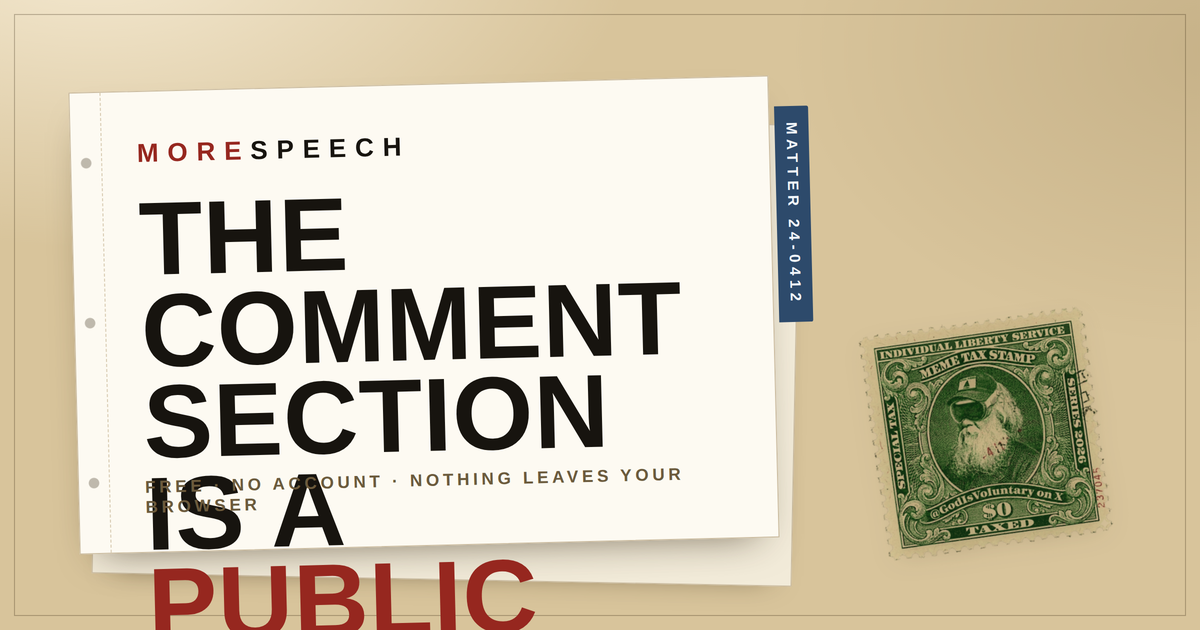
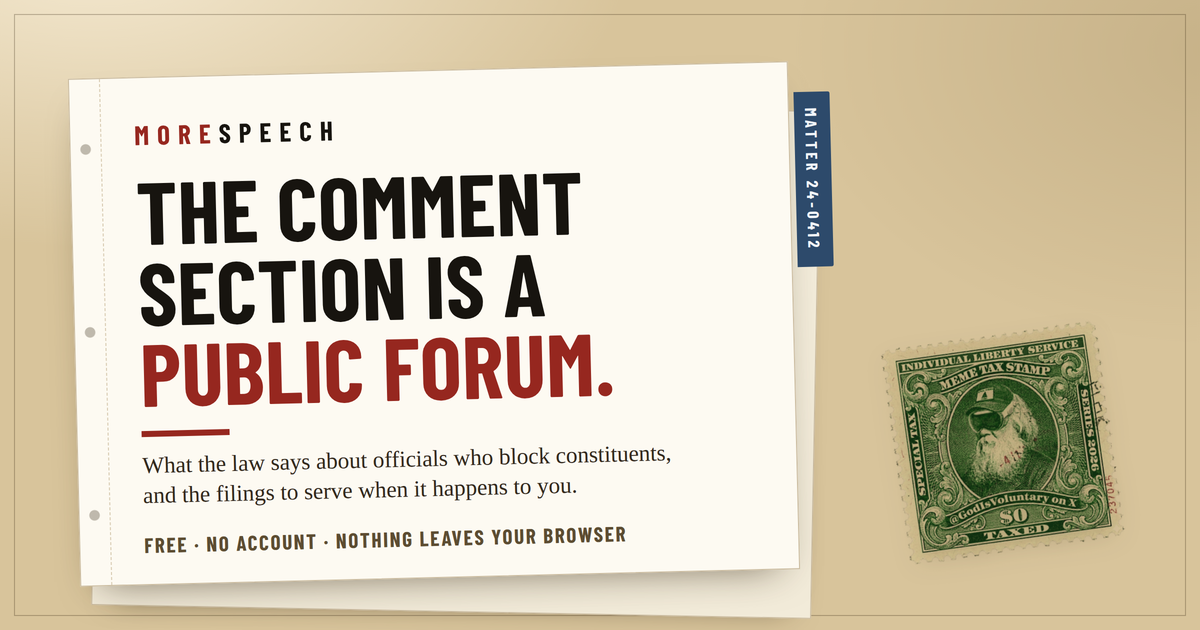
The link card was illegible: the webfont never inlined
og-shot.mjs inlined href and src attributes but not CSS url(), which is how the
@font-face references Barlow Condensed. Rendered as a data: URL, the relative
font path could not resolve, so Chrome fell back to a wider face: the headline
wrapped from three lines to six, the sheet overflowed, and the promise line ran
off the bottom edge. Vision read it back as 'THE / COMMENT / SECTION / IS A /
PUBLIC' with the subtitle overprinted.

Fixed by inlining url() references too, and by making the layout itself
self-checking: og-shot.mjs now refuses to write an image when any block crosses
the sheet edge or a headline line wraps. A fixture with a missing font proves it
fails with 'headline line wrapped' rather than shipping.

Type retuned after reading the rendered card at 500px (phone feed):
headline 88px, subhead 23px at a 545px measure rephrased to two full lines with
no widow, promise line 21px without the divider it was crowding, bottom padding
raised to 44px so the last line clears the sheet edge by 30px.

diff --git a/src/og.html b/src/og.html
@@ -31,12 +31,12 @@
 
   /* the sheet, tilted the way a file left on a desk sits */
   .sheet {
-    position: absolute; left: 74px; top: 84px; width: 700px; height: 462px;
+    position: absolute; left: 74px; top: 70px; width: 720px; height: 508px;
     background: #fdfaf2;
     border: 1px solid #cbbca0;
     box-shadow: 0 18px 40px -22px rgba(46,33,12,.65);
     transform: rotate(-1.4deg);
-    padding: 46px 48px 40px 66px;
+    padding: 40px 46px 44px 64px;
   }
   .sheet::before {
     content: ""; position: absolute; left: 0; top: 0; bottom: 0; width: 30px;
@@ -51,46 +51,46 @@
     writing-mode: vertical-rl;
     background: #2d4a6b; color: #f3f7fb;
     font-family: "Barlow Condensed", sans-serif; font-weight: 700;
-    font-size: 15px; letter-spacing: .3em; text-transform: uppercase;
+    font-size: 16px; letter-spacing: .22em; text-transform: uppercase;
     padding: 16px 9px 16px 8px; border-radius: 0 2px 2px 0;
   }
 
   .wordmark {
     font-family: "Barlow Condensed", sans-serif; font-weight: 700;
-    font-size: 26px; letter-spacing: .34em; text-transform: uppercase; color: #96271f;
+    font-size: 27px; letter-spacing: .3em; text-transform: uppercase; color: #96271f;
   }
   .wordmark em { font-style: normal; color: #17140f; }
 
   h1 {
     font-family: "Barlow Condensed", sans-serif; font-weight: 700;
-    font-size: 104px; line-height: .88; letter-spacing: .005em;
-    text-transform: uppercase; margin: 26px 0 0;
+    font-size: 88px; line-height: .92; letter-spacing: .004em;
+    text-transform: uppercase; margin: 20px 0 0;
   }
   h1 span { display: block; }
   h1 span:nth-child(3) { color: #96271f; }
 
-  .rule { width: 96px; height: 6px; background: #96271f; margin: 22px 0 18px; }
+  .rule { width: 88px; height: 6px; background: #96271f; margin: 18px 0 14px; }
 
   .sub {
-    font-size: 21px; line-height: 1.38; color: #3b3327; max-width: 560px;
+    font-size: 23px; line-height: 1.32; color: #33291c; max-width: 545px;
   }
 
   .foot {
-    position: absolute; left: 66px; bottom: 34px;
+    margin-top: 20px;
     font-family: "Barlow Condensed", sans-serif; font-weight: 700;
-    font-size: 17px; letter-spacing: .22em; text-transform: uppercase; color: #6b5a3c;
+    font-size: 21px; letter-spacing: .08em; text-transform: uppercase; color: #5c4c31;
   }
 
   /* the stamp, on the desk rather than on the sheet */
   .stamp {
-    position: absolute; right: 96px; bottom: 78px; width: 236px;
+    position: absolute; right: 84px; bottom: 74px; width: 226px;
     transform: rotate(-8deg);
     filter: drop-shadow(0 6px 12px rgba(46,33,12,.3));
   }
 
   /* a second sheet edge, half under the first, to read as a stack */
   .under {
-    position: absolute; left: 96px; top: 118px; width: 700px; height: 462px;
+    position: absolute; left: 96px; top: 104px; width: 720px; height: 508px;
     background: #f2ebd9; border: 1px solid #cbbca0;
     transform: rotate(1.1deg);
     box-shadow: 0 14px 30px -24px rgba(46,33,12,.6);
@@ -106,7 +106,7 @@
     <div class="wordmark">More<em>Speech</em></div>
     <h1><span>The comment</span><span>section is a</span><span>public forum.</span></h1>
     <div class="rule"></div>
-    <p class="sub">What the law says about federal officials who block constituents — and the filings to serve when it happens to you.</p>
+    <p class="sub">What the law says about officials who block constituents, and the filings to serve when it happens to you.</p>
     <div class="foot">Free · No account · Nothing leaves your browser</div>
   </div>
 
